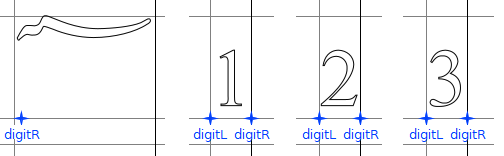
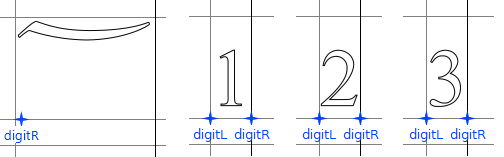
spanning.md: clarify some of the text, update graphics to have correct shape for U+0605

diff --git a/documentation/source/spanning.md b/documentation/source/spanning.md
@@ -2,7 +2,11 @@
 title: Signs Spanning Numbers
 ---
 
-Some characters in Arabic script are signs that span (or enclose) numbers. Over time these have been variously called:
+Some characters in Arabic script are signs that span (or enclose) numbers, such as U+06DD End of Ayah and U+0605 Number Mark Above:
+
+![number mark alternates](assets/images/spanning_signs.png)
+
+Over time these have been variously called:
 
 * _prepended concatenation marks_
 * _subtending marks_
@@ -14,7 +18,7 @@ Since digit choice is dependent on regional use, these marks may be used with Eu
 
 From a practical standpoint there isn't a need to support an arbitrary-length sequence of digits. For SIL fonts, we have found the maximum number of digits as documented in the following table to be sufficient for most uses.
 
-Examples of how these are formatted are shown below using varying number of digits with _hamza_ used as a separator.
+Examples of how these appear are shown below using varying numbers of digits with _hamza_ used as a separator.
 
 Characters | Glyph | max # digits
 :---------- | ----:  | :-----
@@ -80,7 +84,7 @@ For reference, here are the spanning signs, the default glyph name used in SIL f
 | U+0891 ARABIC PIASTRE MARK ABOVE | piastremarkabove-ar | 4 |
 | U+08E2 ARABIC DISPUTED END OF AYAH | endofayahdisputed-ar | 3 |
 
-Here is an example using the U+065 Number Mark Above:
+Here is an example using the U+0605 Number Mark Above:
 
 ![number mark alternates](assets/images/numbermark_glyphs.png)
 <!-- PRODUCT SITE IMAGE SRC https://software.sil.org/arabicfonts/wp-content/uploads/sites/28/2016/06/numbermark_glyphs.png -->
@@ -109,10 +113,10 @@ Anchors are defined to help position the digits to the spanning signs:
 ![numbermark and digit anchors](assets/images/numbermark_digits.png)
 <!-- PRODUCT SITE IMAGE SRC https://software.sil.org/arabicfonts/wp-content/uploads/sites/28/2016/06/numbermark_digits.png -->
 
-* Digit glyphs have `digitL` (left side) and `digitR` (right side) anchors at the baseline to attach each digit to the previous one
+* Digit glyphs have `digitL` (left side) and `digitR` (right side) anchors at the baseline to align each successive digit to the previous one
 * Sign glyphs contain just the `digitR` anchor to define where the left-most of the digit sequence should be positioned
 
-As mentioned above, in most of our fonts the End of Ayah glyph doesn’t change width like the other spanning signs, but multiple glyph variants are still needed. This is because the _position_ of the first digit depends on how many digits there are. This is further complicated in some of our fonts by the fact that the 1- and 2-digit versions of the glyph use the _medium_ size digits, while the 3-digit version uses the _small_ size digits in order to fit all of them in:
+As mentioned above, in most of our fonts the End of Ayah glyph doesn’t change width like the other spanning signs, but multiple glyph variants are still needed. This is because the _position_ of the first digit depends on how many digits there are. This is further complicated in some of our fonts by the fact that the 1- and 2-digit versions of the glyph use the _medium_ size digits, while the 3-digit version uses the _small_ size digits in order to fit all of them in. From left to right, the End of Ayah variants in the following graphic are for 1, 2, and 3 digits:
 
 ![endofayah-ar, endofayah-ar.2 and endofayah-ar.3](assets/images/end_of_ayah_glyphs.png)
 <!-- PRODUCT SITE IMAGE SRC https://software.sil.org/arabicfonts/wp-content/uploads/sites/28/2016/06/end_of_ayah_glyphs.png -->
@@ -131,7 +135,7 @@ Both substitution and positioning rules are needed:
 
 * Substitute the correct spanning sign glyph based on how many digits follow
 * Substitute the medium or small digit glyphs for the normal-sized digit glyphs
-* Adjust position of digits by attaching or aligning `digitL` to `digitR` anchors
+* Adjust position of digits by attaching (Graphite) or aligning (OpenType) `digitL` to `digitR` anchors
 
 ### Graphite logic
 
@@ -288,7 +292,9 @@ let x1 = APx(m, "digitR") - ADVx(m);
 At the same time we kern the first digit, we want to remove its advancewidth. Thus we start out our contextual kerning rule using:
 
 ```
-pos $m  @DigitsAnyMedium' <$x1 $y $w 0> @DigitsAnyMedium' @DigitsAnyMedium' DigitsAnyMedium';
+pos $m  @DigitsAnyMedium' <$x1 $y $w 0> 
+        @DigitsAnyMedium' 
+        @DigitsAnyMedium';
 ```
 
 (For refresher on the `<...>` value record, see [Value record format B](https://github.com/adobe-type-tools/afdko/blob/develop/docs/OpenTypeFeatureFileSpecification.html#value-record-format-b) in the Adobe FEA specification.)
@@ -302,7 +308,9 @@ let x2 = x1 - w;
 We can now add kerning for the second digit to our existing rule:
 
 ```
-pos $m  @DigitsAnyMedium' <$x1 $y $w 0> @DigitsAnyMedium' <$x2 $y $w 0> DigitsAnyMedium' ;
+pos $m  @DigitsAnyMedium' <$x1 $y $w 0> 
+        @DigitsAnyMedium' <$x2 $y $w 0> 
+        @DigitsAnyMedium' ;
 ```
 
 Adding similar logic for the 3rd digit and putting it all together gives us this snippet for a 3-digit sequence for a sign `m`:
@@ -318,8 +326,12 @@ let x3 = x2 - w;
 with positioning rules
 
 ```
-pos $m  @DigitsAnyMedium' <$x1 $y $w 0> @DigitsAnyMedium' <$x2 $y $w 0>  DigitsAnyMedium' <$x3 $y $w 0> ;
-pos     @DigitsAnyMedium' <$x3 $y $w 0> @DigitsAnyMedium' <$x2 $y $w 0>  @DigitsAnyMedium' <$x1 $y $w 0> $m ;
+pos $m  @DigitsAnyMedium' <$x1 $y $w 0> 
+        @DigitsAnyMedium' <$x2 $y $w 0> 
+        @DigitsAnyMedium' <$x3 $y $w 0> ;
+pos     @DigitsAnyMedium' <$x3 $y $w 0> 
+        @DigitsAnyMedium' <$x2 $y $w 0> 
+        @DigitsAnyMedium' <$x1 $y $w 0> $m ;
 ```
 
 Note that we've added a second positioning rule to handle the case where the spanning sign _follows_ the digits — confirming it is correct is an exercise for the reader.
@@ -338,8 +350,14 @@ lookup PositionSpanningSigns {
        let x1 = APx(m, "digitR") - ADVx(m); 
        let x2 = x1 - w; let x3 = x2 - w; let x4 = x3 - w;
     {
-        pos $m  @DigitsAnyMedium' <$x1 $y $w 0> @DigitsAnyMedium' <$x2 $y $w 0>  @DigitsAnyMedium' <$x3 $y $w 0>  @DigitsAnyMedium' <$x4 $y $w 0> ;
-        pos     @DigitsAnyMedium' <$x4 $y $w 0> @DigitsAnyMedium' <$x3 $y $w 0>  @DigitsAnyMedium' <$x2 $y $w 0>  @DigitsAnyMedium' <$x1 $y $w 0> $m ;
+        pos $m  @DigitsAnyMedium' <$x1 $y $w 0> 
+                @DigitsAnyMedium' <$x2 $y $w 0> 
+                @DigitsAnyMedium' <$x3 $y $w 0> 
+                @DigitsAnyMedium' <$x4 $y $w 0> ;
+        pos     @DigitsAnyMedium' <$x4 $y $w 0> 
+                @DigitsAnyMedium' <$x3 $y $w 0> 
+                @DigitsAnyMedium' <$x2 $y $w 0> 
+                @DigitsAnyMedium' <$x1 $y $w 0> $m ;
     }
     
     # Those that take 3 medium digits
@@ -349,8 +367,12 @@ lookup PositionSpanningSigns {
        let x1 = APx(m, "digitR") - ADVx(m); 
        let x2 = x1 - w; let x3 = x2 - w;
     {
-        pos $m  @DigitsAnyMedium' <$x1 $y $w 0>  @DigitsAnyMedium' <$x2 $y $w 0>  @DigitsAnyMedium' <$x3 $y $w 0> ;
-        pos     @DigitsAnyMedium' <$x3 $y $w 0>  @DigitsAnyMedium' <$x2 $y $w 0>  @DigitsAnyMedium' <$x1 $y $w 0>  $m ;
+        pos $m  @DigitsAnyMedium' <$x1 $y $w 0> 
+                @DigitsAnyMedium' <$x2 $y $w 0> 
+                @DigitsAnyMedium' <$x3 $y $w 0> ;
+        pos     @DigitsAnyMedium' <$x3 $y $w 0> 
+                @DigitsAnyMedium' <$x2 $y $w 0> 
+                @DigitsAnyMedium' <$x1 $y $w 0>  $m ;
     }
 
     # Those that take 3 small digits (default for @c_3)
@@ -360,8 +382,12 @@ lookup PositionSpanningSigns {
        let x1 = APx(m, "digitR") - ADVx(m); 
        let x2 = x1 - w; let x3 = x2 - w;
     {
-        pos $m  @DigitsAnySmall' <$x1 $y $w 0>  @DigitsAnySmall' <$x2 $y $w 0>  @DigitsAnySmall' <$x3 $y $w 0> ;
-        pos     @DigitsAnySmall' <$x3 $y $w 0>  @DigitsAnySmall' <$x2 $y $w 0>  @DigitsAnySmall' <$x1 $y $w 0>  $m ;
+        pos $m  @DigitsAnySmall' <$x1 $y $w 0> 
+                @DigitsAnySmall' <$x2 $y $w 0> 
+                @DigitsAnySmall' <$x3 $y $w 0> ;
+        pos     @DigitsAnySmall' <$x3 $y $w 0> 
+                @DigitsAnySmall' <$x2 $y $w 0> 
+                @DigitsAnySmall' <$x1 $y $w 0>  $m ;
     }
 
     # Those that take 2 medium digits
@@ -371,8 +397,10 @@ lookup PositionSpanningSigns {
        let x1 = APx(m, "digitR") - ADVx(m); 
        let x2 = x1 - w; 
     {
-        pos $m  @DigitsAnyMedium' <$x1 $y $w 0>  @DigitsAnyMedium' <$x2 $y $w 0> ;
-        pos     @DigitsAnyMedium' <$x2 $y $w 0>  @DigitsAnyMedium' <$x1 $y $w 0>  $m ;
+        pos $m  @DigitsAnyMedium' <$x1 $y $w 0> 
+                @DigitsAnyMedium' <$x2 $y $w 0> ;
+        pos     @DigitsAnyMedium' <$x2 $y $w 0> 
+                @DigitsAnyMedium' <$x1 $y $w 0>  $m ;
     }
     
     # Those that take 1 medium digit
